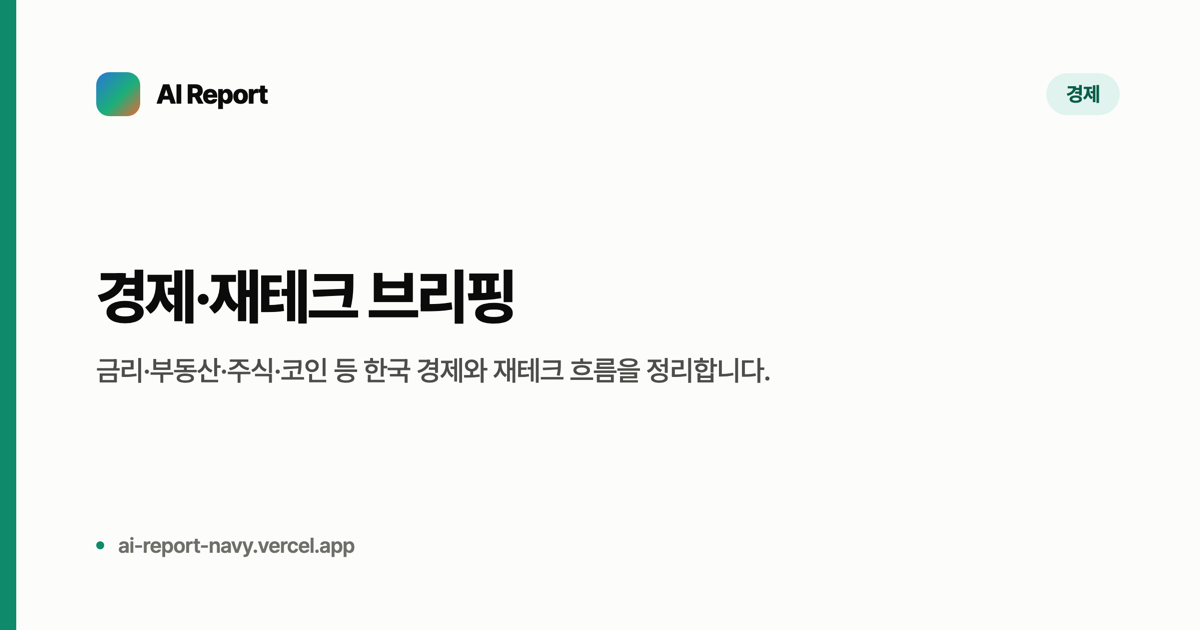
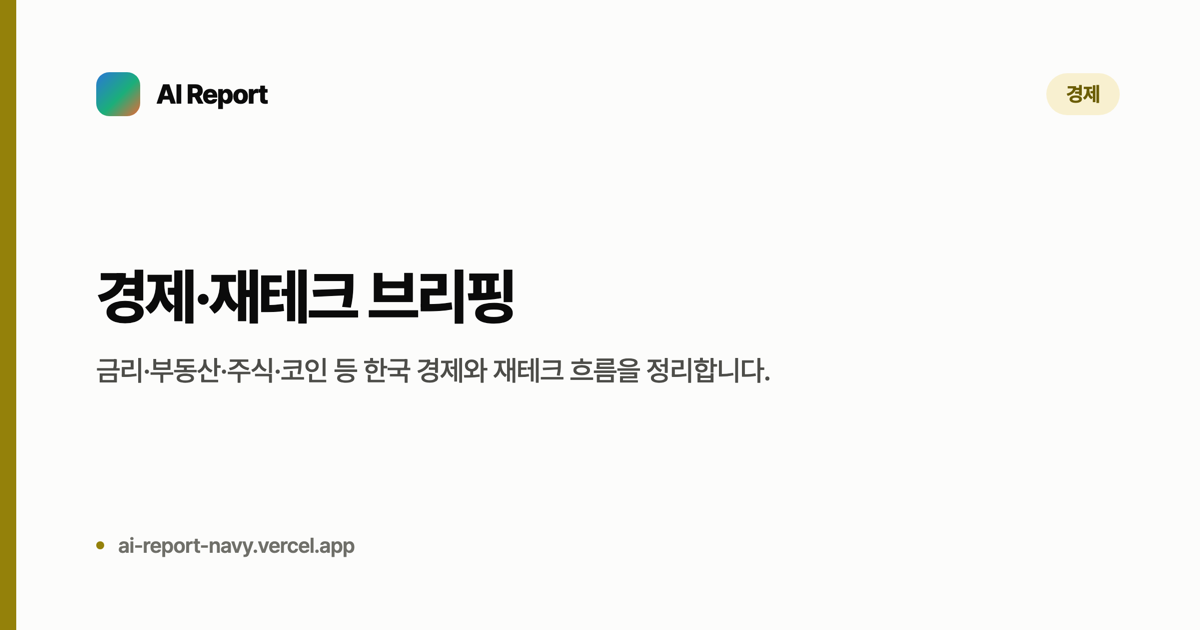
finance 색: 에메랄드 → gold
녹색 계열(electronics 청록·global-ui-ux 초록)과 겹치던 finance를 gold로 변경.
- --cat-finance 3블록: 라이트 #94810a / 다크 #dcc24a
- -solid(흰글자) 라이트 #6b5d00(6.6:1) / 다크 #4a3d00(10.7:1)
- chip 라이트 #f8f0d0·#6b5d05(5.8:1) / 다크 #3a3210·#ecd47e(8.7:1)
- categories.ts accent + make-og finance + og/finance.png 재생성
food-travel amber(37°)와 Δhue 15°·밝기차로 구분. 대비 전부 WCAG AA↑ 검증.

Changed region(s): [[0.0, 0.0, 0.0308, 1.0], [0.8633, 0.1206, 0.9558, 0.181]]

diff --git a/src/styles/global.css b/src/styles/global.css
@@ -30,7 +30,7 @@
   --cat-food-travel:   #d99019;
   --cat-gaming:        #7c5cd6;
   --cat-education:     #4f5bd5;
-  --cat-finance:       #0f8a6a;
+  --cat-finance:       #94810a;
   --cat-mobility:      #d64545;
 
   /* 흰 글자를 얹는 자리 전용 (takeaway 번호·skip-link).
@@ -44,7 +44,7 @@
   --cat-food-travel-solid:  #805008;
   --cat-gaming-solid:       #6a49c4;
   --cat-education-solid:    #4048b8;
-  --cat-finance-solid:      #066e54;
+  --cat-finance-solid:      #6b5d00;
   --cat-mobility-solid:     #c13030;
   --accent-solid:           #2873ce;
 
@@ -56,7 +56,7 @@
   --chip-food-travel-bg:   #fbf1dd;  --chip-food-travel-fg:   #8f5e0c;
   --chip-gaming-bg:        #efeafb;  --chip-gaming-fg:        #543aa8;
   --chip-education-bg:     #eff0fb;  --chip-education-fg:     #2d3578;
-  --chip-finance-bg:       #e6f5f1;  --chip-finance-fg:       #065a45;
+  --chip-finance-bg:       #f8f0d0;  --chip-finance-fg:       #6b5d05;
   --chip-mobility-bg:      #fdedec;  --chip-mobility-fg:      #a8261d;
 
   --alert-bg: #fdefe8;
@@ -102,7 +102,7 @@
     --cat-food-travel:  #e5a72f;
     --cat-gaming:       #9377e0;
     --cat-education:    #7b8ae0;
-    --cat-finance:      #2cb399;
+    --cat-finance:      #dcc24a;
     --cat-mobility:     #e86767;
     --cat-kr-daily-solid:     #c24f22;
     --cat-it-ai-solid:        #3174c5;
@@ -112,7 +112,7 @@
     --cat-food-travel-solid:  #8a5e12;
     --cat-gaming-solid:       #7a5cd0;
     --cat-education-solid:    #4556ff;
-    --cat-finance-solid:      #004d33;
+    --cat-finance-solid:      #4a3d00;
     --cat-mobility-solid:     #7a0000;
     --accent-solid:           #3174c5;
     --chip-kr-daily-bg:     #3a2118;  --chip-kr-daily-fg:     #f0956e;
@@ -123,7 +123,7 @@
     --chip-food-travel-bg:  #33280f;  --chip-food-travel-fg:  #f0c264;
     --chip-gaming-bg:       #241a3a;  --chip-gaming-fg:       #b8a4f0;
     --chip-education-bg:    #1e2140;  --chip-education-fg:    #a8b3fa;
-    --chip-finance-bg:      #0d3d31;  --chip-finance-fg:      #5cddbe;
+    --chip-finance-bg:      #3a3210;  --chip-finance-fg:      #ecd47e;
     --chip-mobility-bg:     #3d1e1e;  --chip-mobility-fg:     #f5a0a0;
     --alert-bg: #3a2118;
     --alert-fg: #f0956e;
@@ -159,7 +159,7 @@
   --cat-food-travel:  #e5a72f;
   --cat-gaming:       #9377e0;
   --cat-education:    #7b8ae0;
-  --cat-finance:      #2cb399;
+  --cat-finance:      #dcc24a;
   --cat-mobility:     #e86767;
   --cat-kr-daily-solid:     #c24f22;
   --cat-it-ai-solid:        #3174c5;
@@ -169,7 +169,7 @@
   --cat-food-travel-solid:  #8a5e12;
   --cat-gaming-solid:       #7a5cd0;
   --cat-education-solid:    #4556ff;
-  --cat-finance-solid:      #004d33;
+  --cat-finance-solid:      #4a3d00;
   --cat-mobility-solid:     #7a0000;
   --accent-solid:           #3174c5;
 
@@ -181,7 +181,7 @@
   --chip-food-travel-bg:  #33280f;  --chip-food-travel-fg:  #f0c264;
   --chip-gaming-bg:       #241a3a;  --chip-gaming-fg:       #b8a4f0;
   --chip-education-bg:    #1e2140;  --chip-education-fg:    #a8b3fa;
-  --chip-finance-bg:      #0d3d31;  --chip-finance-fg:      #5cddbe;
+  --chip-finance-bg:      #3a3210;  --chip-finance-fg:      #ecd47e;
   --chip-mobility-bg:     #3d1e1e;  --chip-mobility-fg:     #f5a0a0;
 
   --alert-bg: #3a2118;

diff --git a/src/lib/categories.ts b/src/lib/categories.ts
@@ -81,8 +81,8 @@ export const CATEGORIES: Record<CategoryId, Category> = {
     name: '경제·재테크',
     short: '경제',
     description: '금리·부동산·주식·코인 등 한국 경제와 재테크 흐름을 정리합니다.',
-    accent: '#0f8a6a',
-    accentDark: '#17a37f',
+    accent: '#94810a',
+    accentDark: '#dcc24a',
   },
   mobility: {
     id: 'mobility',

diff --git a/scripts/make-og.py b/scripts/make-og.py
@@ -52,7 +52,7 @@ CARDS = {
                       accent='#4f5bd5', chip=('#eef1fa', '#3d4899'), size=60),
     'finance': dict(title='경제·재테크 브리핑', short='경제',
                     desc='금리·부동산·주식·코인 등 한국 경제와 재테크 흐름을 정리합니다.',
-                    accent='#0f8a6a', chip=('#e0f3ee', '#0a5d4a'), size=60),
+                    accent='#94810a', chip=('#f8f0d0', '#6b5d05'), size=60),
     'mobility': dict(title='자동차·모빌리티 브리핑', short='모빌리티',
                      desc='전기차·신차·자율주행 등 자동차와 모빌리티 산업 동향을 정리합니다.',
                      accent='#d64545', chip=('#f5e8e8', '#a83534'), size=60),
